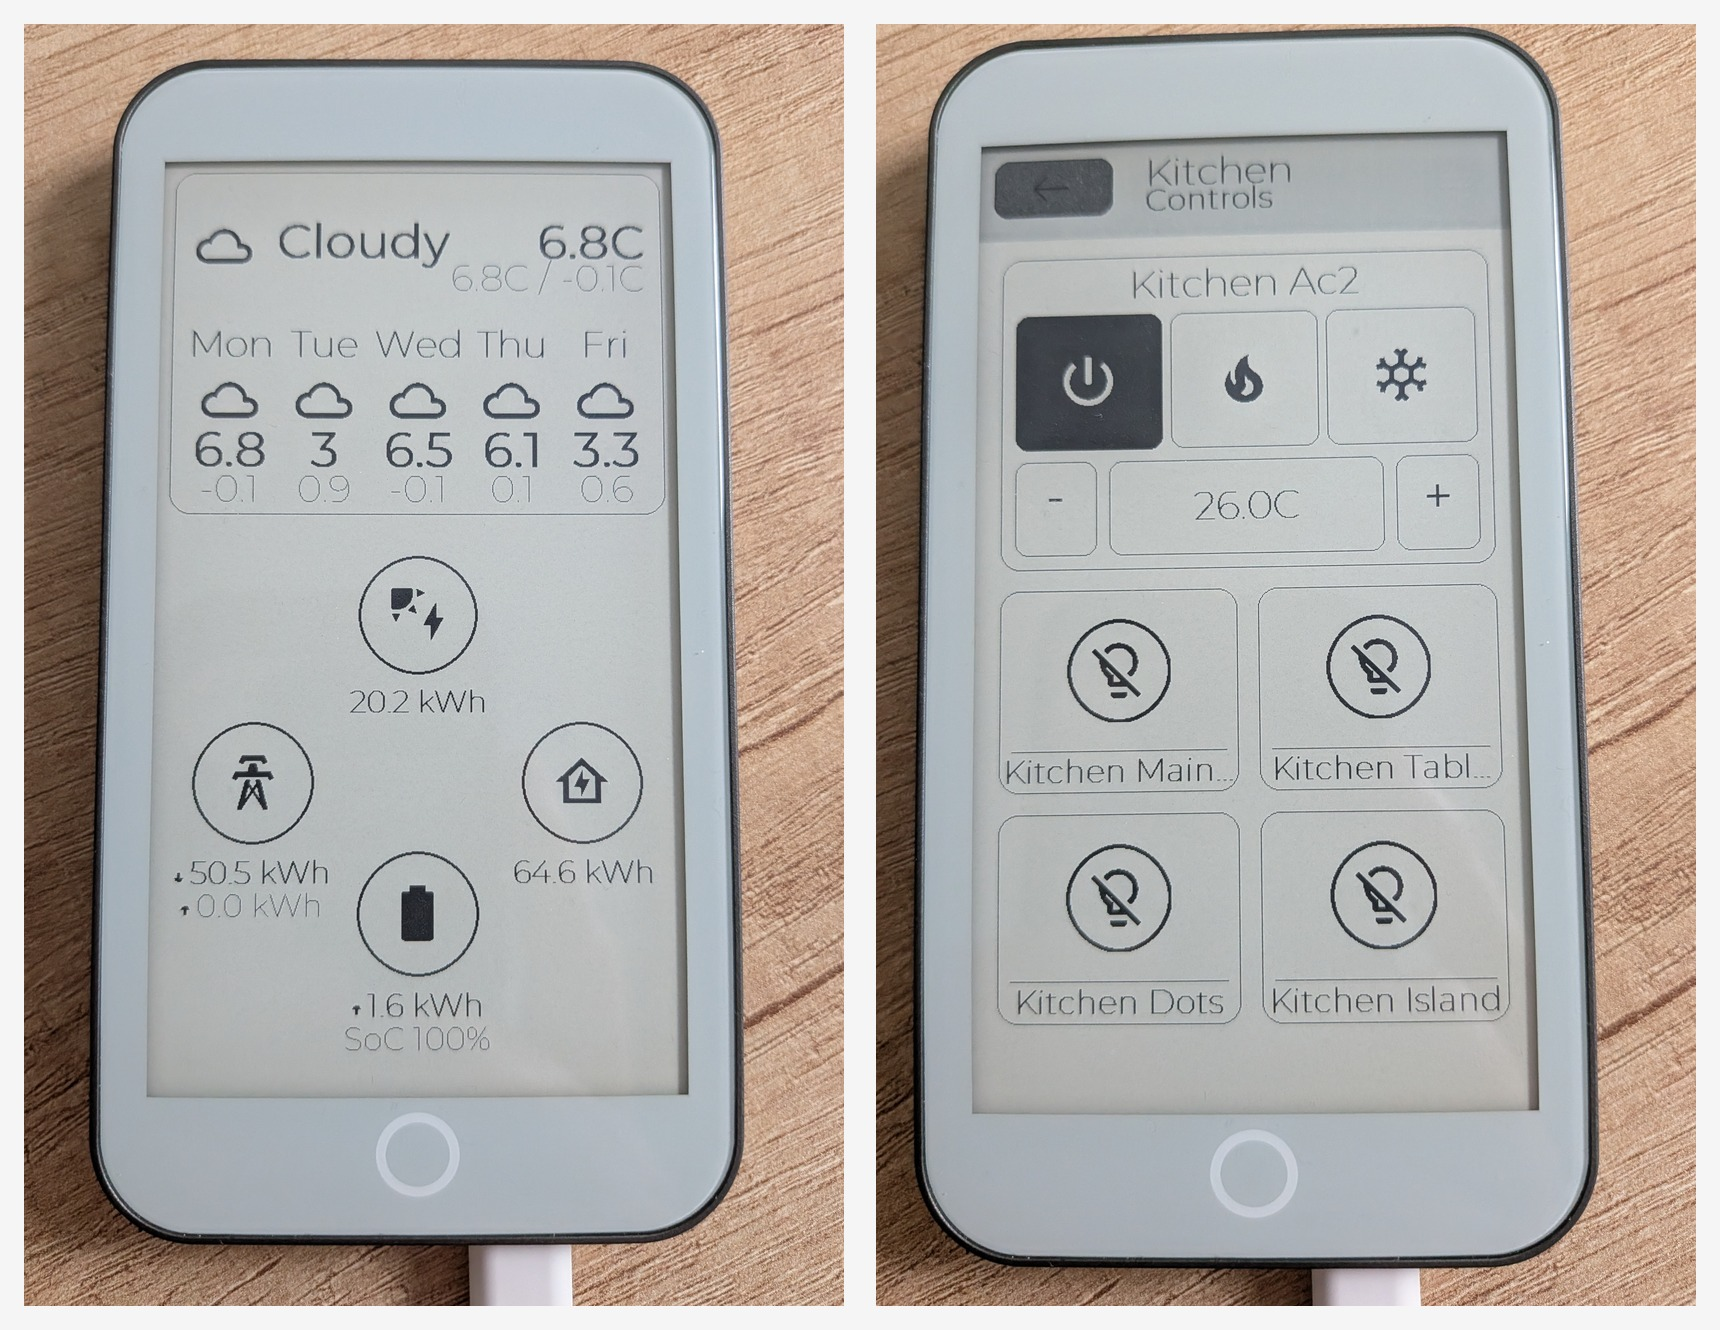
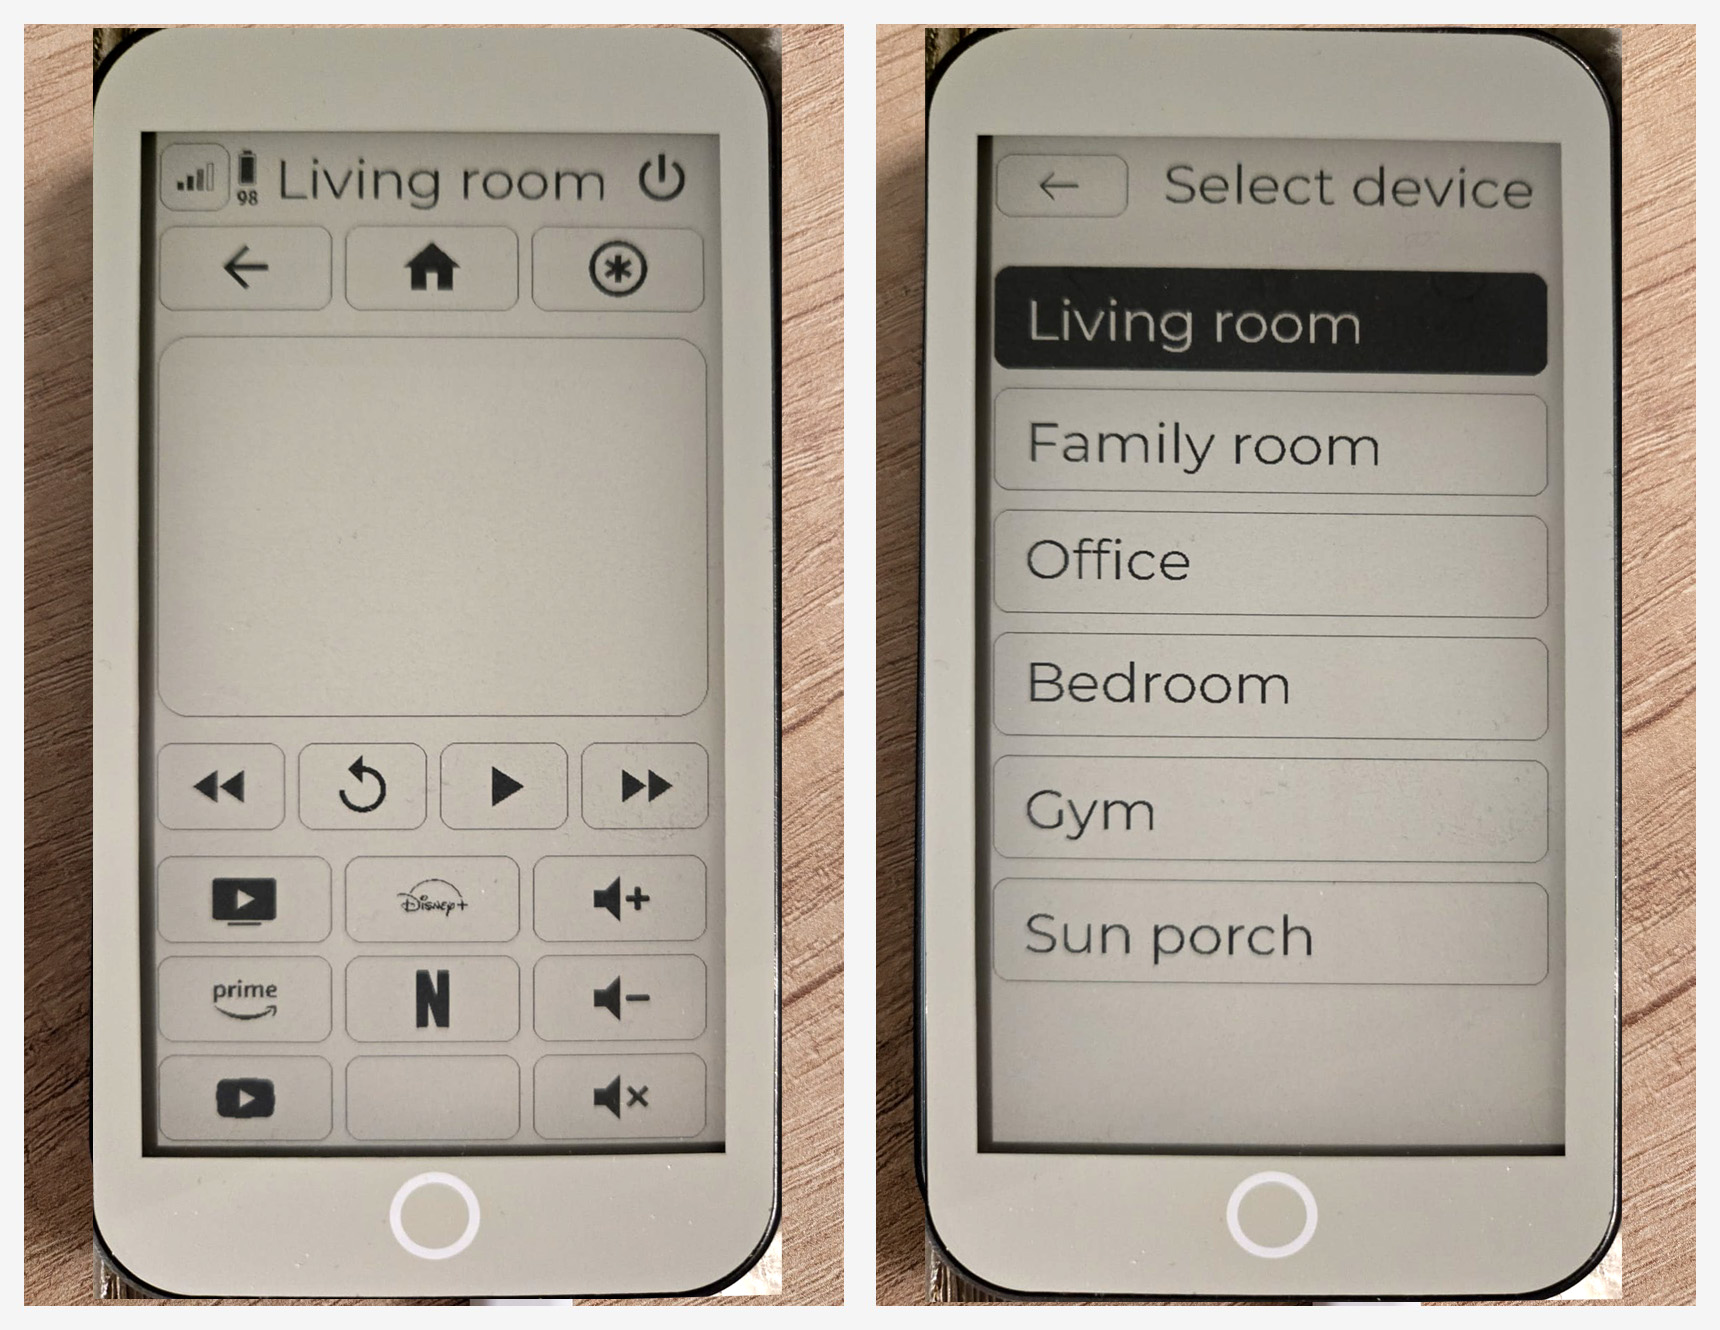
Update README for the media-player remote
The repo grew up as a Home-Assistant area/room/light controller; the
firmware has since been rebuilt around a single media-controller page
that drives one or more remote.* / media_player.* entities over the
HTTPS REST API. Replace the Floors -> Rooms -> Room-controls feature
list with the current touchpad/transport/volume/source-grid layout,
drop the weather/energy/climate/cover/light bullets and the matching
optional Configuration fields, document the multi-device header
picker + per-device entity bindings, and add a Network-resilience
section covering keep-alive, in-flight retry, and the HA-screen
Retry behaviour.

diff --git a/README.md b/README.md
@@ -1,16 +1,15 @@
-# Home Assistant ePaper remote
+# Home Assistant ePaper media remote
 
-e-Ink remote for Home Assistant built with [FastEPD](https://github.com/bitbank2/FastEPD).
+e-Ink media-player remote for Home Assistant built with [FastEPD](https://github.com/bitbank2/FastEPD).
 
 ![Preview](./preview.jpg)
 
-It uses the HTTPS REST API of Home Assistant, no plugin is required on the server.
-As it stays connected to the Wifi to send commands, the remote only lasts a few hours on battery.
+The device drives one or more `remote.*` / `media_player.*` entities in Home Assistant over the HTTPS REST API — no add-on or plugin required on the server. The on-screen layout is a single media-controller page: D-pad touchpad, transport, volume, and a 2x3 source-selection grid, with a header strip for device switching, Wi-Fi status, Power, and Battery. Light sleep, deep sleep, and a Wi-Fi fast-connect cache keep idle draw low between presses.
 
 ## Hardware supported
 
 - [Lilygo T5 E-Paper S3 Pro](https://lilygo.cc/products/t5-e-paper-s3-pro)
-- [M5Stack M5Paper S3](https://docs.m5stack.com/en/core/PaperS3)
+- [M5Stack M5Paper S3](https://docs.m5stack.com/en/core/PaperS3)  (_untested_)
 
 ## Setup
 
@@ -36,42 +35,42 @@ In Home Assistant:
 
 ### Update configuration
 
-Copy `src/config_remote.cpp.example` to `src/config_remote.cpp` then update the file accordingly.
+Copy `src/config_remote.cpp.example` to `src/config_remote.cpp` then update the file accordingly. You configure:
 
-Optional standby data source fields are available in `Configuration`:
-
-- `weather_entity_id`
-- `energy_solar_entity_id`
-- `energy_grid_entity_id`
-- `energy_battery_usage_entity_id`
-- `energy_battery_soc_entity_id`
-- `energy_house_entity_id`
-
-If these are omitted, firmware will still attempt to discover usable standby sources from Home Assistant (weather entity + energy preferences).
+- Wi-Fi SSID/password (plus optional static IP/gateway/subnet/DNS).
+- Home Assistant base URL (`https://host:port`, no trailing slash, no path) and a long-lived access token.
+- The shared `media_remote_commands` map — names sent to `remote.send_command` for each D-pad / transport key (defaults match Roku ECP / HA-canonical names like `Up`, `Down`, `Select`, `Back`, `Home`, `Play`, `reverse`, `forward`, `replay`).
+- One or more `media_devices[]` entries. Each device has a title (shown in the header), a `remote.*` entity for D-pad/transport, a `media_player.*` entity for volume, a `media_player.*` entity for `select_source`, an optional `HassAction` for the Power button (any `domain.service` + entity), and up to 6 source-channel labels+icons. Tap the title in the header to switch between configured devices; the active index is persisted in NVS.
 
 ## Current UI and feature set
 
-- Home Assistant-driven navigation:
-  - Floors -> Rooms -> Room controls
-  - Rooms without a floor are grouped under `Other Areas`
-  - Floor/room lists are paged grids with horizontal swipe navigation
-- Room controls:
-  - Climate widgets (AC units only) are shown first and support `off/heat/cool` + `+/-0.5C`
-  - Cover widgets support `Up/Open` and `Down/Close`
-  - Light widgets are half-width tiles (2 per row) with dynamic sizing and room-page pagination
+- Media controller home screen:
+  - Header: Wi-Fi status (tap → Wi-Fi settings), device title (tap → device picker), Power button, Battery indicator (tap → battery status).
+  - Touchpad D-pad: tap fires OK/Select, swipe past a 5-pixel threshold fires Up/Down/Left/Right. Tap dispatches after a 120 ms hold so the user doesn't have to lift first.
+  - Transport row: Back, Home, Info, Play/Pause, Rewind, Fast-Forward, Instant-Replay.
+  - Volume row: Volume Up / Down / Mute. Hold Vol± to auto-repeat every 200 ms.
+  - Source grid: up to 6 per-device source channels, each calls `media_player.select_source` against the source entity.
+- Device switching:
+  - Per-device entity bindings (`remote`, `volume`, `source`, `power_action`) configured in `config_remote.cpp`.
+  - Up to `MAX_MEDIA_DEVICES` entries; picker is the header title.
 - Settings:
-  - Home screen settings icon opens Settings menu
-  - Wi-Fi settings page shows status, profile, SSID, IP, RSSI, scan results, and default-profile reset
-  - On-screen Wi-Fi password entry for secure networks
-  - Standby screen debug entry (`Standby Screen` tile)
-- Standby mode:
-  - Auto-activates after inactivity timeout
-  - Tap anywhere returns to home
-  - Displays weather forecast and daily energy summary
-  - Refreshes on an hourly cadence while active
-- Hardware home button:
-  - Front button support on Lilygo T5 E-Paper S3 Pro (via touch controller key callback)
-  - Returns to root home (floor list)
+  - Wi-Fi settings page shows status, active profile, SSID, IP, RSSI, scan results, and a default-profile reset.
+  - On-screen Wi-Fi password keyboard for secure networks.
+  - Battery status page (when a BQ27220 fuel gauge / BQ25896 charger IC is fitted) shows SoC, voltage, charge state, and charger health.
+- Standby and deep sleep:
+  - Frontlight off after 10 s idle
+  - Switches to standby mode after 60 s idle, wakes quickly on touch
+  - Enters deep sleep after 30 min idle; display a sleep screen; wakes on the side BOOT button.
+  - Re-association uses a cached BSSID/channel so the first HA command after wake lands quickly.
+  - The BQ27220 fuel gauge is dropped into hibernate before deep sleep to cut board quiescent draw.
+- Hardware buttons:
+  - Boot side button (Lilygo T5 S3 Pro): returns to the media controller home / wakes from deep sleep.
+  - Front home button (Lilygo T5 S3 Pro): returns to the media controller home (except for deep sleep mode)
+  - IO48 side button (Lilygo T5 S3 Pro): enables/disables the frontlight, and counts as user activity for the idle timer.
+- Network resilience:
+  - HTTPS POSTs keep the TLS session alive across requests with explicit TCP keepalive.
+  - On a transport error while Wi-Fi is healthy, the command retries every 200 ms within its 2 s lifetime before the device shows the "lost connection" screen.
+  - Retry button on the HA-Disconnected screen pokes the HA task to probe immediately rather than bouncing Wi-Fi.
 
 ## Wi-Fi behavior notes
 
@@ -149,7 +148,7 @@ pio run -e m5-papers3 -t monitor
 - Runs on push to `main`, pull requests, and manual dispatch
 - Builds both PlatformIO environments:
   - `lilygo-t5-s3`
-  - `m5-papers3`
+  - `m5-papers3` (_untested_)
 
 ### Getting more logs
 